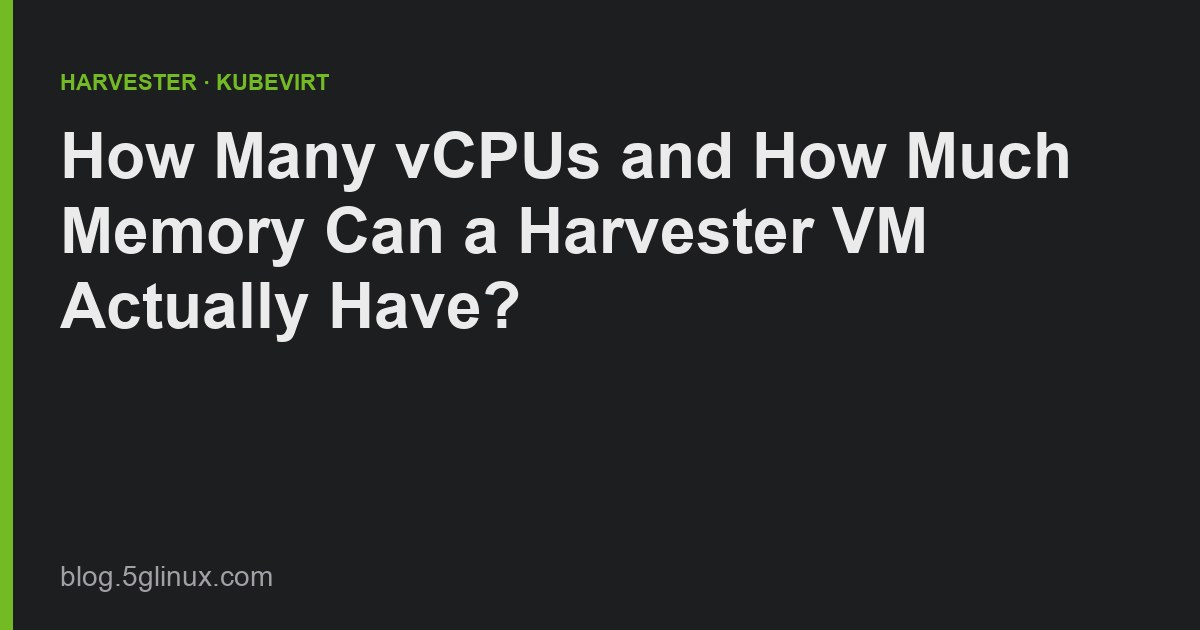
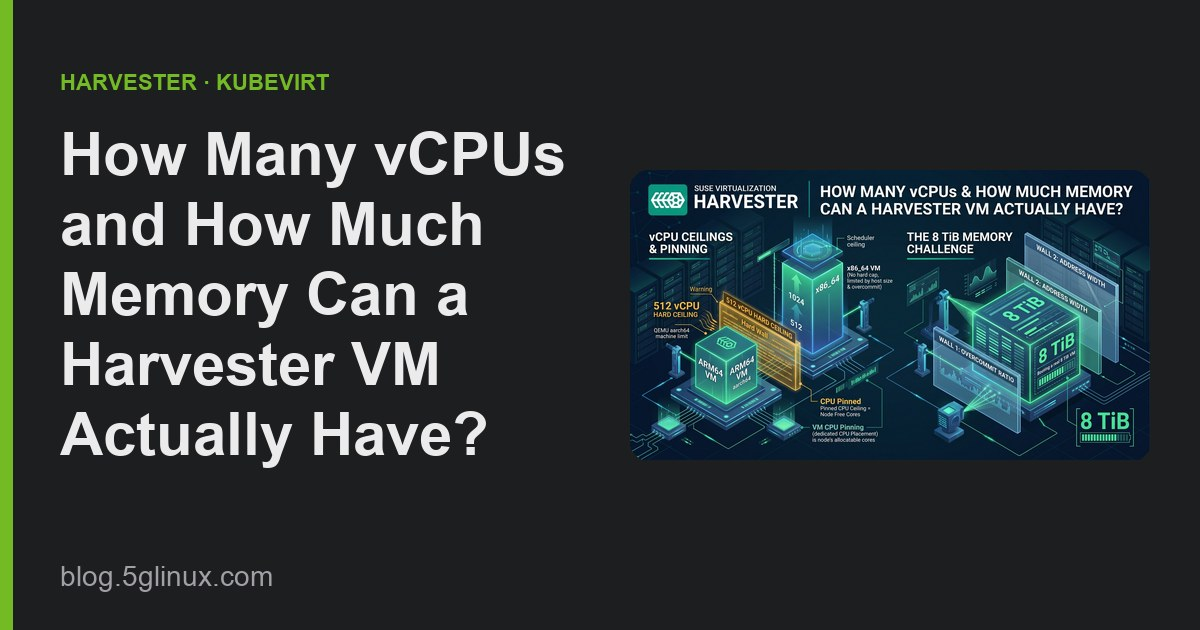
Add hero diagram to vCPU/memory limits post

Changed region(s): [[0.0308, 0.2111, 0.9558, 0.754]]

diff --git a/content/posts/harvester-vm-vcpu-memory-limits/index.md b/content/posts/harvester-vm-vcpu-memory-limits/index.md
@@ -9,6 +9,8 @@ images: ["og.jpg"]
 
 Sizing a VM on Harvester, two questions come up fast: how many vCPUs can one VM actually get, and how much memory can it actually use? Harvester's docs cover resource *overcommit ratios* — the knobs that let the scheduler pack more virtual resources onto a host than physically exists — but they don't say where the real ceilings are. I spent a session finding out, on two very different clusters: a 3-node ARM64 cluster built on Ampere Altra CPUs, and a single-node x86_64 box built on a Dell PowerEdge R640. Both questions turned up more than a number — the vCPU ceiling depends entirely on architecture, and the memory ceiling turned out to be two separate walls stacked on top of each other, one of which I only found by actually booting a VM with 8 TiB of RAM.
 
+![Diagram summarizing vCPU ceilings and pinning on ARM64 vs x86_64, and the two memory walls (overcommit ratio and CPU address width) hit while booting an 8 TiB VM](overview-diagram.jpg)
+
 ## Lab setup
 
 ARM64 cluster ("Mt. Collins"): three nodes, each a dual-socket Ampere Altra with 2×80 cores (160 cores/node, no hyperthreading), running Harvester v1.9.1-rc3 (KubeVirt 1.8.4).
